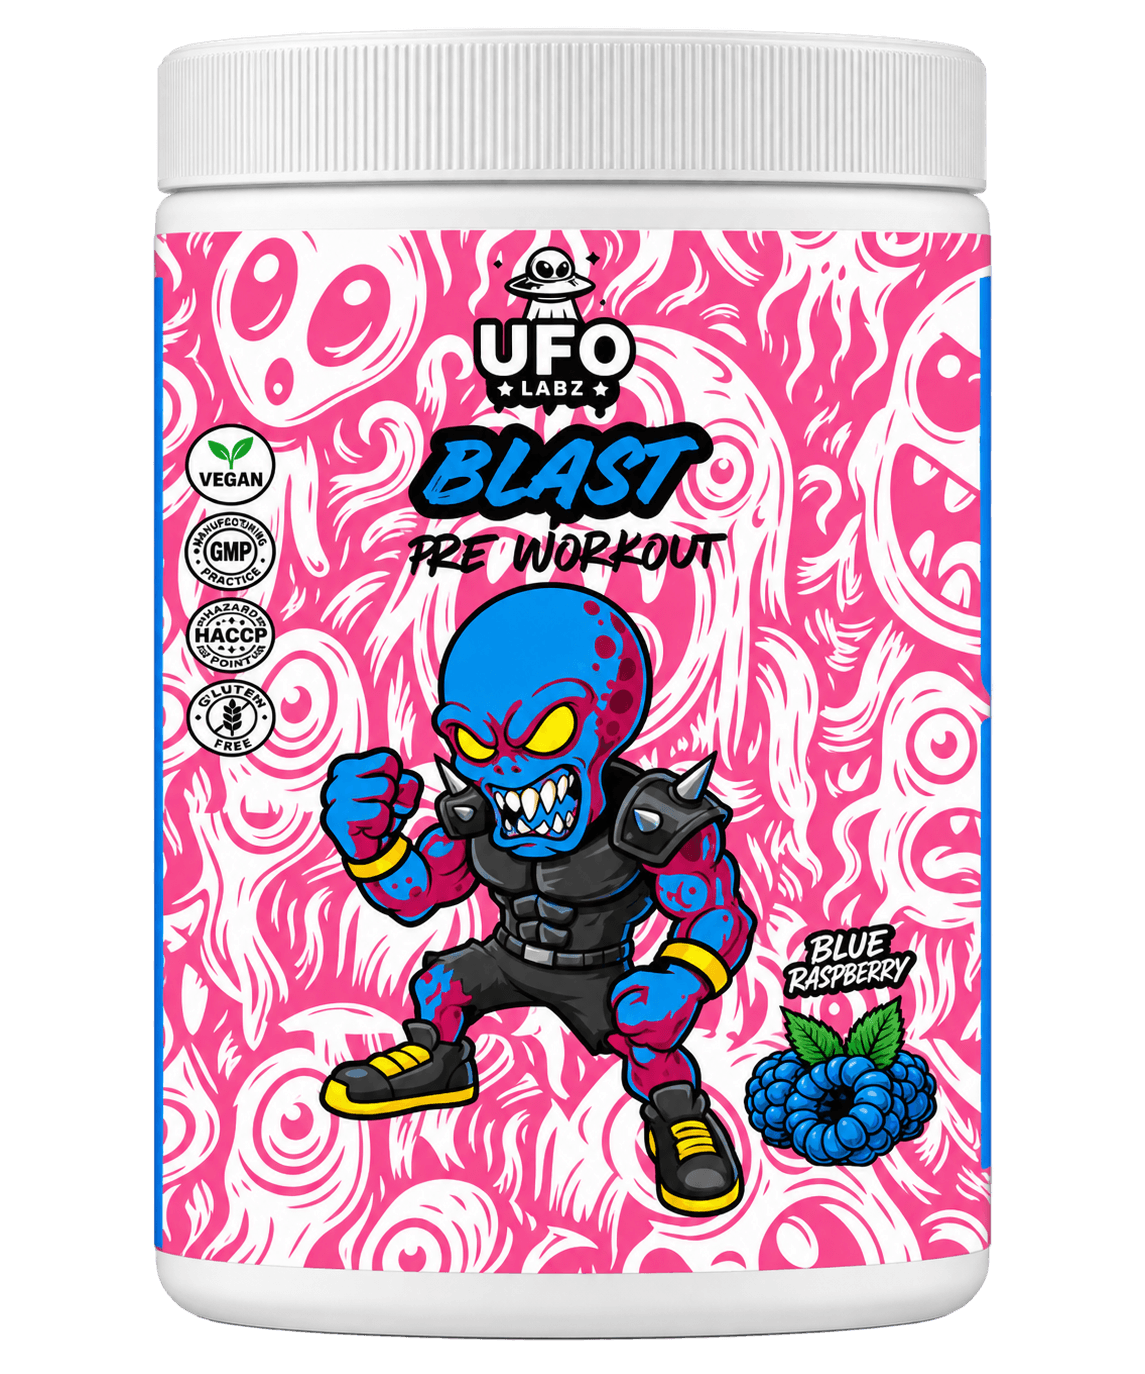
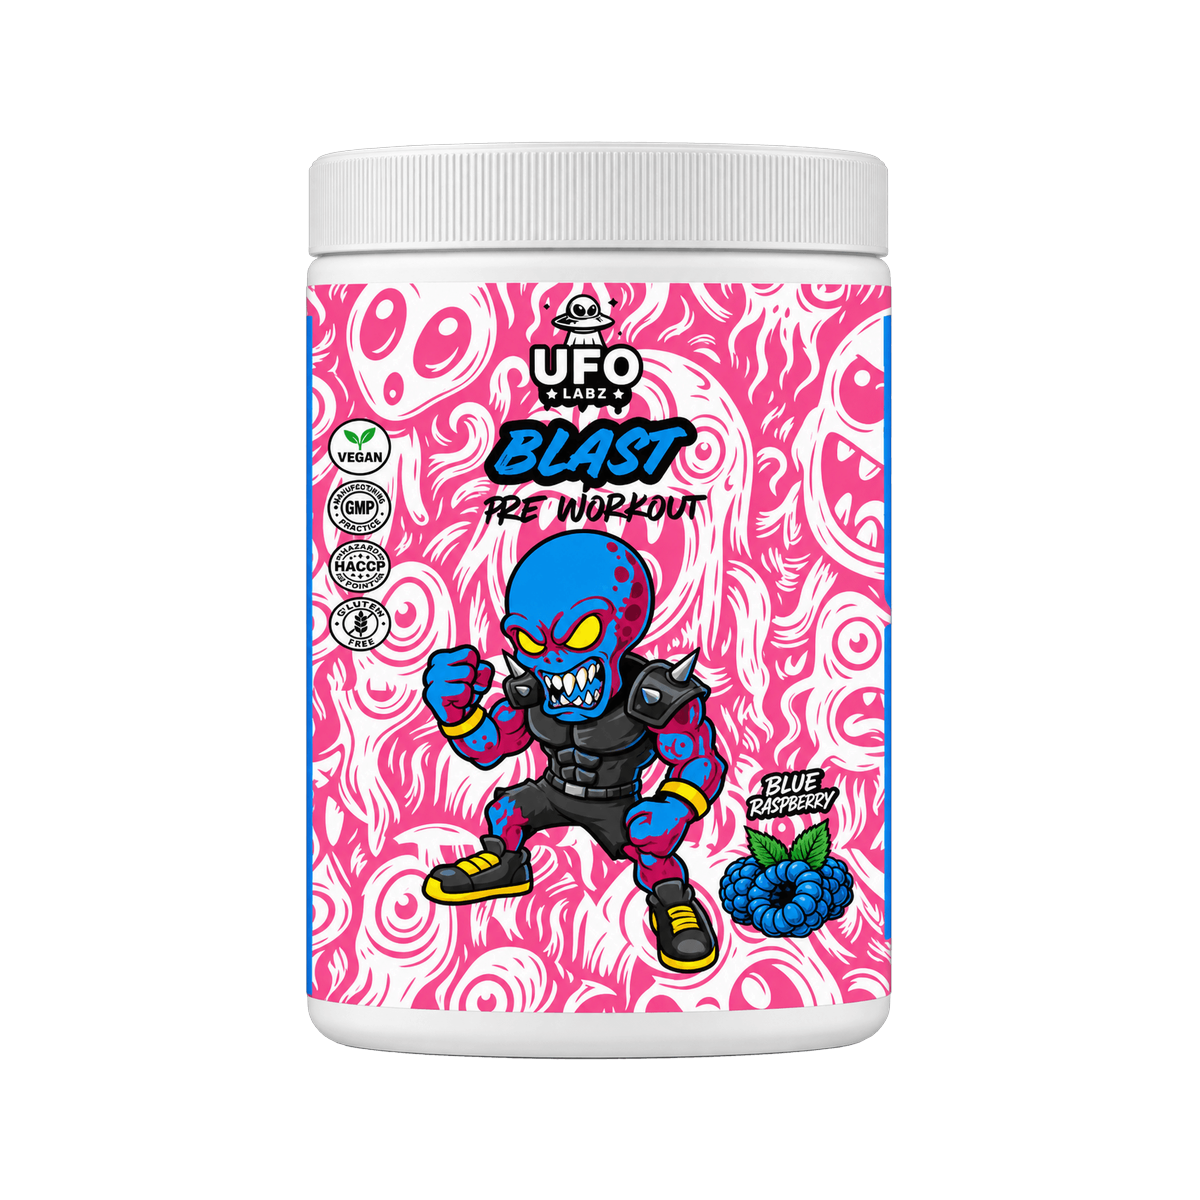
feat: set flat 9.99 shipping with free delivery over 75, standardize product image canvas sizes, and seed test sale order for printing

diff --git a/app/layout.tsx b/app/layout.tsx
@@ -8,7 +8,7 @@ export const metadata: Metadata = {
     default: 'UFO LABZ | Sports Supplements Switzerland',
     template: '%s',
   },
-  description: 'Premium science-backed supplements engineered for peak performance. Free delivery in Switzerland on orders over CHF 99.',
+  description: 'Premium science-backed supplements engineered for peak performance. Free delivery in Switzerland on orders over CHF 75.',
   metadataBase: new URL('https://ufolabz.com'),
   applicationName: 'UFO LABZ',
   alternates: { canonical: 'https://ufolabz.com' },
@@ -28,7 +28,7 @@ export const metadata: Metadata = {
   },
   openGraph: {
     title: 'UFO LABZ — Alien Performance Technology',
-    description: 'Premium science-backed supplements engineered for peak performance. Free delivery in Switzerland on orders over CHF 99.',
+    description: 'Premium science-backed supplements engineered for peak performance. Free delivery in Switzerland on orders over CHF 75.',
     url: 'https://ufolabz.com',
     siteName: 'UFO LABZ',
     images: [
@@ -45,7 +45,7 @@ export const metadata: Metadata = {
   twitter: {
     card: 'summary_large_image',
     title: 'UFO LABZ — Alien Performance Technology',
-    description: 'Premium science-backed supplements engineered for peak performance. Free delivery in Switzerland on orders over CHF 99.',
+    description: 'Premium science-backed supplements engineered for peak performance. Free delivery in Switzerland on orders over CHF 75.',
     images: ['https://qhwbmniqplygipszkhcb.supabase.co/storage/v1/object/public/product-images/astro-creatine.png'],
   },
 }

diff --git a/app/checkout/page.tsx b/app/checkout/page.tsx
@@ -604,12 +604,12 @@ export default function CheckoutPage() {
                               <span className="text-[10px] font-mono bg-white/10 px-1.5 py-0.5 rounded text-gray-300">CH</span>
                             </div>
                             <div className="text-xs text-gray-400">
-                              CHF 10 if under CHF 75 · Free shipping for orders CHF 75+
+                              CHF 9.99 if under CHF 75 · Free shipping for orders CHF 75+
                             </div>
                           </div>
                         </div>
                         <span className="font-mono text-xs font-bold text-alien-green">
-                          {subtotal >= SHIPPING_CONFIG.switzerland.freeThreshold ? 'FREE' : 'CHF 10.00'}
+                          {subtotal >= SHIPPING_CONFIG.switzerland.freeThreshold ? 'FREE' : 'CHF 9.99'}
                         </span>
                       </div>
 
@@ -752,7 +752,7 @@ export default function CheckoutPage() {
                             <div className="text-[11px] text-gray-400">Regular batch dispatch</div>
                           </div>
                           <span className="font-mono text-xs font-bold text-alien-green">
-                            {subtotal >= SHIPPING_CONFIG.switzerland.freeThreshold ? 'FREE' : 'CHF 10.00'}
+                            {subtotal >= SHIPPING_CONFIG.switzerland.freeThreshold ? 'FREE' : 'CHF 9.99'}
                           </span>
                         </div>
                         <div

diff --git a/lib/config/pricing.ts b/lib/config/pricing.ts
@@ -163,32 +163,32 @@ export const SHIPPING_CONFIG = {
   switzerland: {
     currency: 'CHF' as SupportedCurrency,
     freeThreshold: 75.0, // Free delivery from CHF 75
-    standardFee: 10.0, // CHF 10 if under CHF 75
+    standardFee: 9.99, // CHF 9.99 if under CHF 75
     pickupFee: 0.0, // Free pickup at NutriFit Geneva
   },
   eu: {
     currency: 'EUR' as SupportedCurrency,
     freeThreshold: 75.0, // Free delivery from EUR 75
-    defaultStandardFee: 9.9, // Configurable placeholder
+    defaultStandardFee: 9.99, // Standard EU delivery fee under EUR 75
     countryRates: {
-      FR: 9.9,
-      DE: 9.9,
-      IT: 9.9,
-      AT: 9.9,
-      ES: 10.9,
-      NL: 9.9,
-      BE: 9.9,
-      PT: 11.9,
-      PL: 10.9,
-      SE: 12.9,
-      DK: 11.9,
-      FI: 12.9,
-      IE: 11.9,
-      LU: 9.9,
-      CZ: 10.9,
-      GR: 12.9,
-      RO: 11.9,
-      HU: 10.9,
+      FR: 9.99,
+      DE: 9.99,
+      IT: 9.99,
+      AT: 9.99,
+      ES: 9.99,
+      NL: 9.99,
+      BE: 9.99,
+      PT: 9.99,
+      PL: 9.99,
+      SE: 9.99,
+      DK: 9.99,
+      FI: 9.99,
+      IE: 9.99,
+      LU: 9.99,
+      CZ: 9.99,
+      GR: 9.99,
+      RO: 9.99,
+      HU: 9.99,
     } as Record<string, number>,
   },
 }

diff --git a/components/product/ProductDetail.tsx b/components/product/ProductDetail.tsx
@@ -1263,7 +1263,7 @@ export default function ProductDetail({ product: serverProduct, slug }: { produc
                 <div className="bg-space-900 border border-white/5 p-4 rounded-xl space-y-2">
                   <Award className="w-6 h-6 text-alien-green" />
                   <div className="font-bold text-sm">Shipping Costs</div>
-                  <p className="text-xs text-gray-400">Free delivery for orders above CHF 99. Otherwise CHF 9.00 flat.</p>
+                  <p className="text-xs text-gray-400">Free delivery for orders above CHF 75. Otherwise CHF 9.99 flat.</p>
                 </div>
 
                 <div className="bg-space-900 border border-white/5 p-4 rounded-xl space-y-2">

diff --git a/app/(store)/pages/shipping/page.tsx b/app/(store)/pages/shipping/page.tsx
@@ -53,7 +53,7 @@ export default function ShippingPage() {
               </li>
               <li className="text-sm text-muted flex items-center gap-2">
                 <span className="w-1.5 h-1.5 rounded-full bg-alien-green shrink-0" />
-                CHF 10.00 standard (under CHF 75)
+                CHF 9.99 standard (under CHF 75)
               </li>
               <li className="text-sm text-muted flex items-center gap-2">
                 <span className="w-1.5 h-1.5 rounded-full bg-alien-green shrink-0" />

diff --git a/components/faq/FaqClient.tsx b/components/faq/FaqClient.tsx
@@ -23,7 +23,7 @@ const faqData = [
       },
       {
         q: 'Do you ship internationally?',
-        a: 'Yes! We ship to all EU countries and select international destinations. Free shipping on Swiss orders over CHF 99.',
+        a: 'Yes! We ship to all EU countries and select international destinations. Free shipping on Swiss orders over CHF 75.',
       },
       {
         q: 'How can I track my order?',

diff --git a/lib/email/email.ts b/lib/email/email.ts
@@ -118,7 +118,7 @@ export const emailService = {
       discount_code: discountCode || 'ORBITAL10',
       subtotal: `CHF ${subtotal.toFixed(2)}`,
       discount: `CHF ${(subtotal * 0.25).toFixed(2)}`,
-      shipping: subtotal >= 75 ? 'FREE' : 'CHF 7.90',
+      shipping: subtotal >= 75 ? 'FREE' : 'CHF 9.99',
       total: `CHF ${(subtotal * 0.75).toFixed(2)}`,
     }
 
